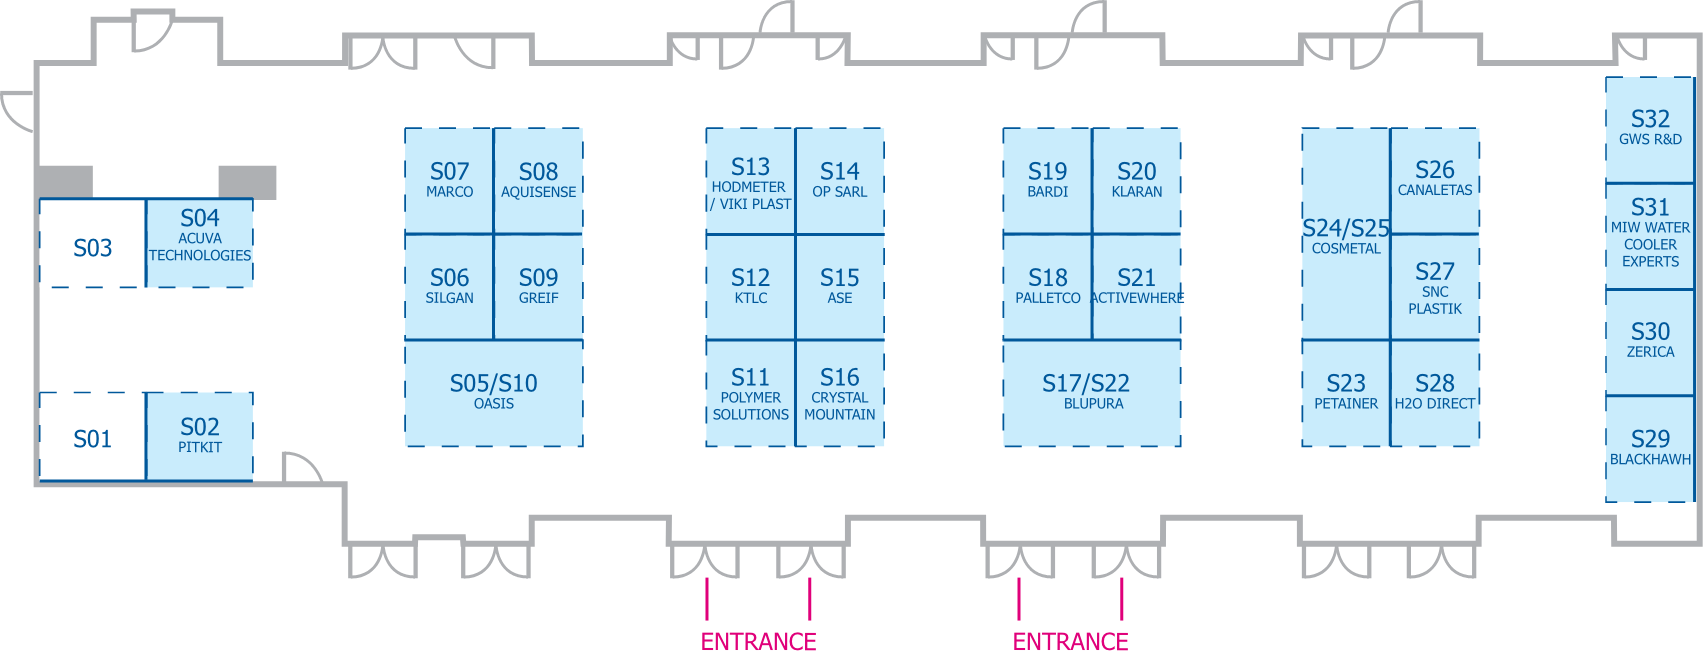
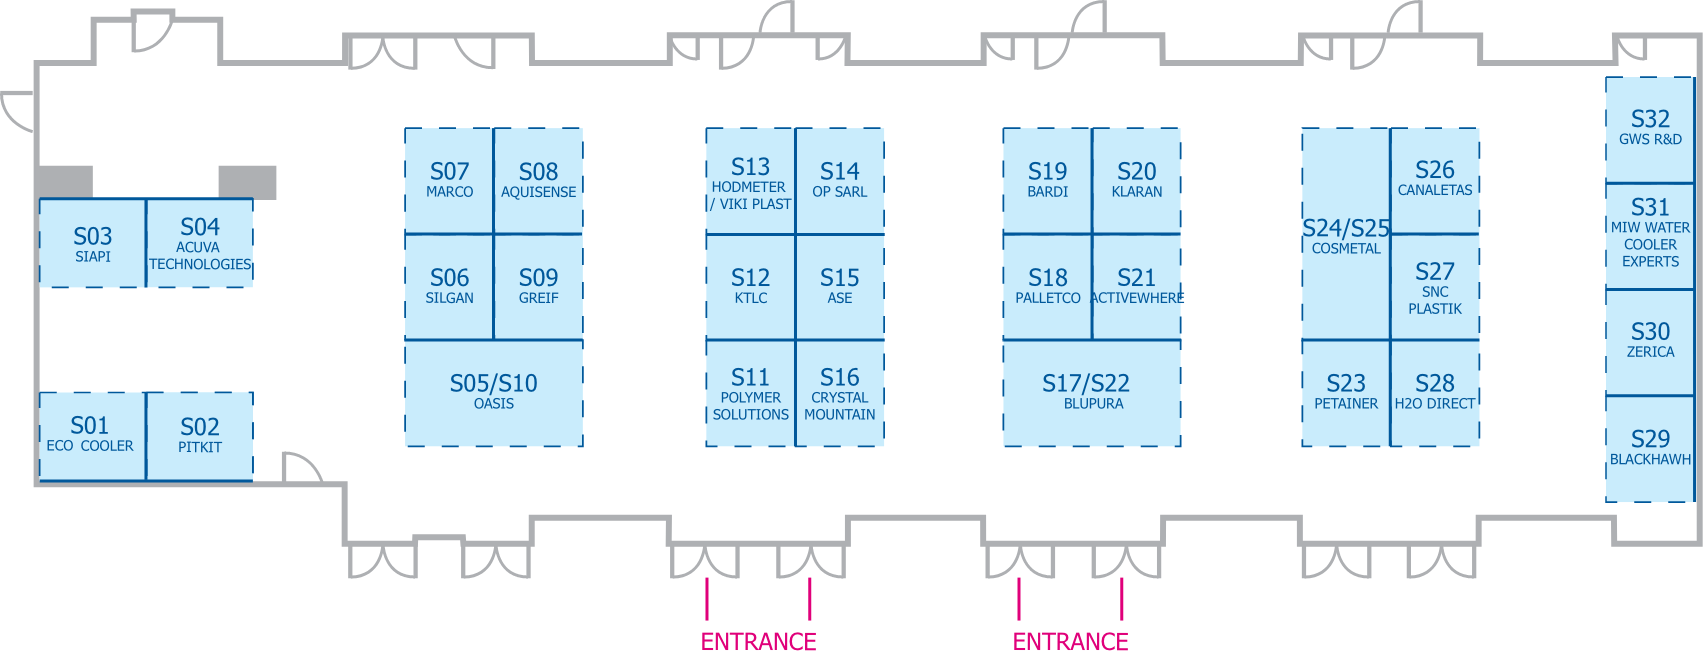
inactive

Changed region(s): [[0.0, 0.3044, 0.1556, 0.4566], [0.0, 0.5784, 0.0934, 0.7306]]

diff --git a/src/templates/trade-fair.js b/src/templates/trade-fair.js
@@ -38,15 +38,17 @@ export const TradeFairTemplate = ({ title, tradefair, fees }) => {
             <span className="">S24/25</span><span>COSMETAL SRL</span>
             <span className="">S16</span><span>CRYSTAL MOUNTAIN</span>
             <span className="">S09</span><span>GREIF POLAND SP. Z O.O.</span>
+            <span className="">S01</span><span>ECO COOLER</span>
             <span className="">S32</span><span >GWS R&D</span>
             <span className="">S28</span><span>H2O DIRECT LIMITED</span>
-            <span className="">S13</span><span>HODMETER</span>
-            <span className="last">S20</span><span className="last" >KLARAN BY CRYSTAL IS</span>
+            <span className="last">S13</span><span className="last">HODMETER</span>
+           
             
             
           </div>
           <div className="grid grid-cols-[108px_1fr] list">
-            <span className="first">S12</span><span  className="first">KTLC EUROPE LTD</span>
+          <span className="first">S20</span><span className="first" >KLARAN BY CRYSTAL IS</span>
+            <span >S12</span><span  >KTLC EUROPE LTD</span>
             <span >S07</span><span >MARCO BEVERAGE SYSTEMS</span>
             <span className="">S31</span><span>MIW WATER COOLER EXPERTS</span>
             <span className="">S05/10</span><span>OASIS WATER FRIENDLY SOLUTIONS</span>
@@ -55,12 +57,13 @@ export const TradeFairTemplate = ({ title, tradefair, fees }) => {
             <span className="">S23</span><span>PETAINER</span>
             <span className="">S02</span><span>PITKIT LTD</span>
             <span className="">S11</span><span>POLYMER SOLUTIONS INTERNATIONAL INC.</span>
+            <span className="">S03</span><span>SIAPI</span>
             <span className="">S06</span><span>SILGAN CLOSURES</span>
             <span className="">S27</span><span>SNC PLASTIK</span>
             <span className="">S13</span><span>VIKI PLAST</span>
             <span className="">S30</span><span>ZERICA SRL</span>
-            <span className="">S01</span><span></span>
-            <span className="">S03</span><span></span>
+            
+           
             
             
             
@@ -114,6 +117,11 @@ export const TradeFairTemplate = ({ title, tradefair, fees }) => {
 
       <PageSubtitle title="Stand Application Form" />
       <section>
+        <div className="container">
+          <h3 className="font-bold my-4 text-2xl text-center">All stands have been reserved</h3>
+        </div>
+      </section>
+      <section className="inactive">
         <div className="container">
           <div className="">
             <h3 className="font-bold my-4 text-2xl">

diff --git a/src/styles/global.css b/src/styles/global.css
@@ -343,3 +343,9 @@ label.custom-select-wrapper {
   color: #899093;
   font: normal 13px/18px Tahoma, Arial;
 }
+section.inactive:before {position: absolute;content: "";background: #fff;top: 0;left: 0;right: 0;bottom: 0;opacity: 0.5;z-index: 10;}
+
+section.inactive {
+    position: relative;
+    z-index: 1;
+}
